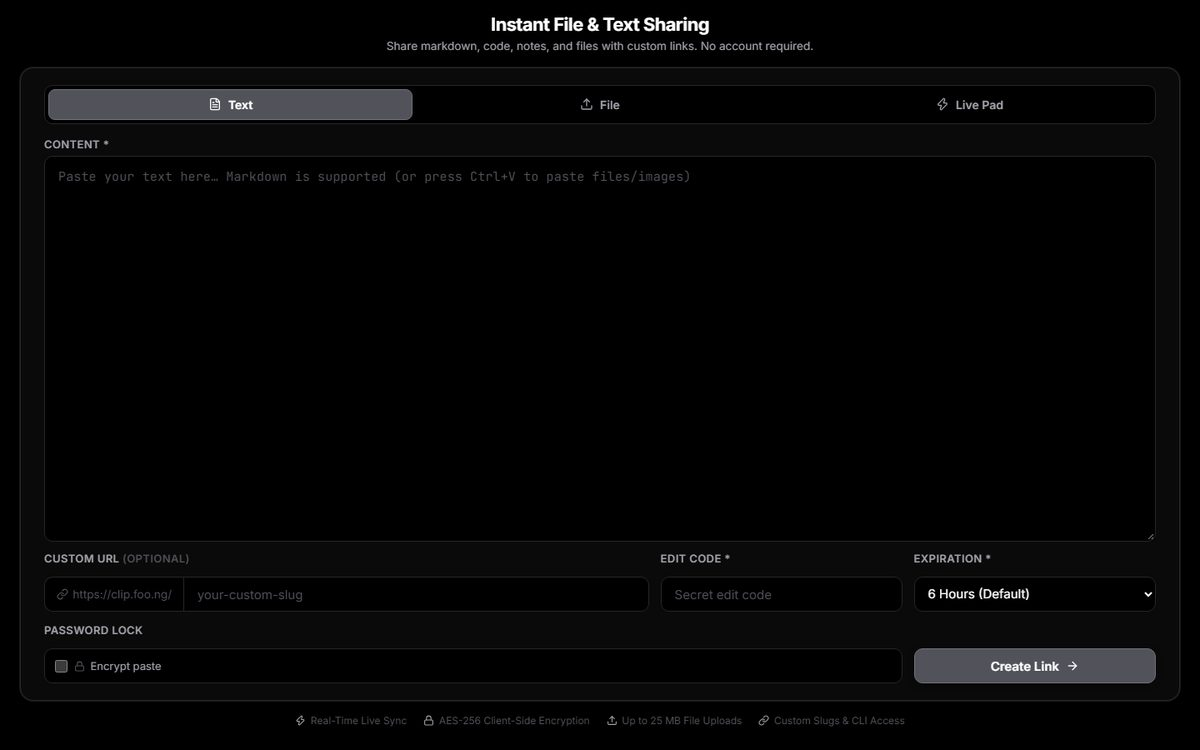
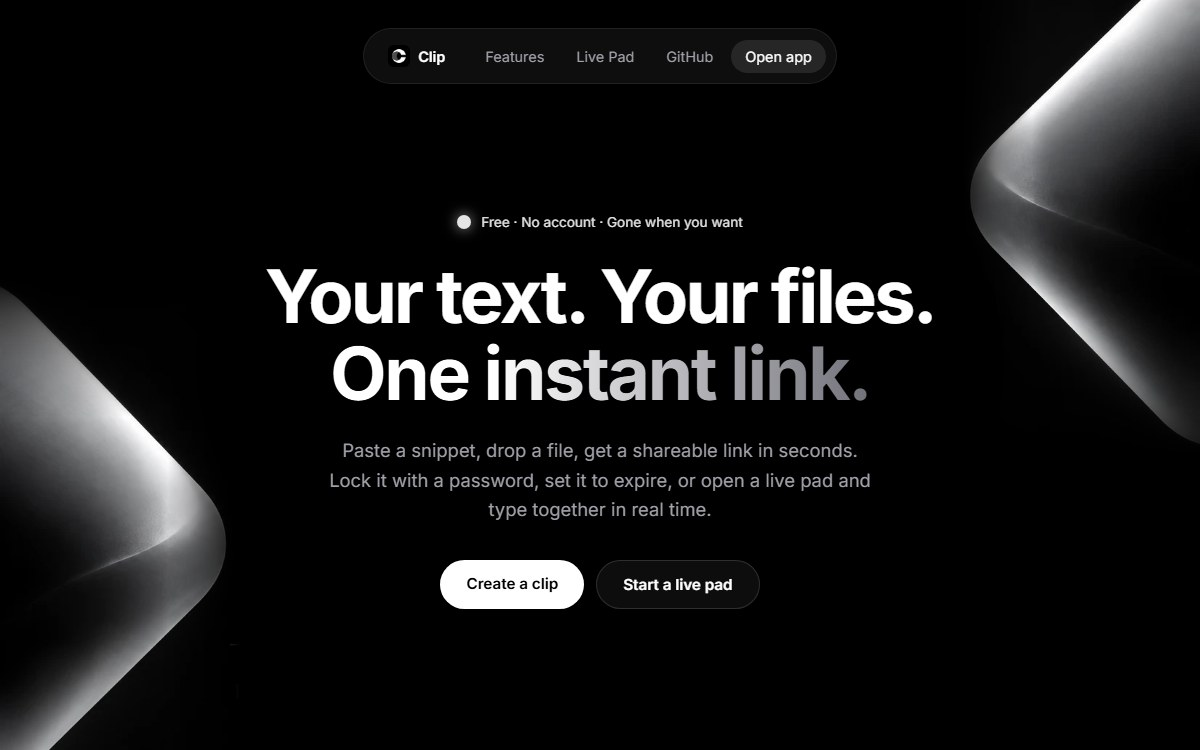
Add Campus Circular and CapitalAI projects, refresh Clip screenshot

diff --git a/index.html b/index.html
@@ -211,7 +211,7 @@
 
           <article class="card" data-card data-project="clip">
             <a class="card__media" href="https://clip.foo.ng" target="_blank" rel="noopener" tabindex="-1">
-              <img src="img/clip.jpg" alt="Clip, a zero-knowledge pastebin" loading="lazy" width="1200" height="750" />
+              <img src="img/clip.jpg" alt="Clip landing page: your text, your files, one instant link" loading="lazy" width="1200" height="750" />
             </a>
             <div class="card__body">
               <span class="card__no">1</span>
@@ -227,12 +227,48 @@
             </div>
           </article>
 
+          <article class="card" data-card data-project="campus">
+            <a class="card__media" href="https://webfusion20.vercel.app" target="_blank" rel="noopener" tabindex="-1">
+              <img src="img/campus-circular.jpg" alt="Campus Circular landing page: why buy what someone nearby already has" loading="lazy" width="1200" height="750" />
+            </a>
+            <div class="card__body">
+              <span class="card__no">2</span>
+              <h3>Campus Circular</h3>
+              <p class="card__kicker">Peer-to-peer resource sharing for campuses</p>
+              <p>Borrow what someone nearby already has. Escrow-secured deposits, a nine-stage borrowing lifecycle and AI bundles for what you need. 1st Runner Up at Thakur Web Fusion 2.0.</p>
+              <p class="card__tags">Next.js, React, TypeScript, Tailwind CSS</p>
+              <div class="card__links">
+                <button type="button" class="more" data-open="campus">Details</button>
+                <a href="https://webfusion20.vercel.app" target="_blank" rel="noopener">Live demo</a>
+                <a href="https://github.com/SC136/Web_Fusion_2.0" target="_blank" rel="noopener">Code</a>
+              </div>
+            </div>
+          </article>
+
+          <article class="card" data-card data-project="capital">
+            <a class="card__media" href="https://sentinelcap.vercel.app" target="_blank" rel="noopener" tabindex="-1">
+              <img src="img/capital-ai.jpg" alt="CapitalAI landing page: smarter capital for a stronger tomorrow" loading="lazy" width="1200" height="750" />
+            </a>
+            <div class="card__body">
+              <span class="card__no">3</span>
+              <h3>CapitalAI</h3>
+              <p class="card__kicker">Portfolio optimizer with autonomous risk safeguards</p>
+              <p>Builds portfolios that minimise tail risk, then watches live market data and trips a three-tier circuit breaker when limits are breached.</p>
+              <p class="card__tags">Next.js, FastAPI, Python, CVXPY</p>
+              <div class="card__links">
+                <button type="button" class="more" data-open="capital">Details</button>
+                <a href="https://sentinelcap.vercel.app" target="_blank" rel="noopener">Live demo</a>
+                <a href="https://github.com/TSROW-Studio/Capital-AI" target="_blank" rel="noopener">Code</a>
+              </div>
+            </div>
+          </article>
+
           <article class="card" data-card data-project="legal">
             <a class="card__media" href="https://legal-ai-gateway-xlmv.onrender.com/" target="_blank" rel="noopener" tabindex="-1">
               <img src="img/legal-ai.jpg" alt="LegalAI landing page" loading="lazy" width="1200" height="750" />
             </a>
             <div class="card__body">
-              <span class="card__no">2</span>
+              <span class="card__no">4</span>
               <h3>LegalAI</h3>
               <p class="card__kicker">AI legal research engine</p>
               <p>Ask a question about Indian criminal law and get an answer that names the exact IPC and BNS sections it relies on.</p>
@@ -250,7 +286,7 @@
               <img src="img/recode.jpg" alt="ReCode landing page" loading="lazy" width="1200" height="750" />
             </a>
             <div class="card__body">
-              <span class="card__no">3</span>
+              <span class="card__no">5</span>
               <h3>ReCode</h3>
               <p class="card__kicker">AI DSA companion</p>
               <p>A revision app that schedules spaced repetition for the topics you're weakest at, with hints that unlock one step at a time.</p>
@@ -263,37 +299,20 @@
             </div>
           </article>
 
-          <article class="card" data-card data-project="pcell">
-            <a class="card__media" href="https://project-cell-crce.vercel.app" target="_blank" rel="noopener" tabindex="-1">
-              <img src="img/projectcell.jpg" alt="Project Cell portal" loading="lazy" width="1200" height="750" />
-            </a>
-            <div class="card__body">
-              <span class="card__no">4</span>
-              <h3>Project Cell Portal</h3>
-              <p class="card__kicker">Official site of my college's tech club</p>
-              <p>The official portal for Project Cell at FrCRCE. I architected and deployed it on Next.js.</p>
-              <p class="card__tags">Next.js, React, Playwright</p>
-              <div class="card__links">
-                <button type="button" class="more" data-open="pcell">Details</button>
-                <a href="https://project-cell-crce.vercel.app" target="_blank" rel="noopener">Live site</a>
-              </div>
-            </div>
-          </article>
-
           <article class="card" data-card data-project="loop">
-            <a class="card__media" href="https://loop-1-0.vercel.app" target="_blank" rel="noopener" tabindex="-1">
+            <a class="card__media" href="https://loopsre.vercel.app/" target="_blank" rel="noopener" tabindex="-1">
               <img src="img/loop.jpg" alt="Loop SRE dashboard" loading="lazy" width="1200" height="750" />
             </a>
             <div class="card__body">
-              <span class="card__no">5</span>
+              <span class="card__no">6</span>
               <h3>Loop</h3>
               <p class="card__kicker">Autonomous SRE dashboard</p>
               <p>A dashboard that watches services, spots incidents early and suggests fixes. A demo of how an autonomous ops tool could work.</p>
               <p class="card__tags">TypeScript, React</p>
               <div class="card__links">
                 <button type="button" class="more" data-open="loop">Details</button>
-                <a href="https://loop-1-0.vercel.app" target="_blank" rel="noopener">Live demo</a>
-                <a href="https://github.com/WillyEverGreen/Loop_1.0" target="_blank" rel="noopener">Code</a>
+                <a href="https://loopsre.vercel.app/" target="_blank" rel="noopener">Live demo</a>
+                <a href="https://github.com/WillyEverGreen/Loop" target="_blank" rel="noopener">Code</a>
               </div>
             </div>
           </article>
@@ -303,7 +322,7 @@
               <img src="img/spacescope.jpg" alt="SpaceScope landing page" loading="lazy" width="1200" height="750" />
             </a>
             <div class="card__body">
-              <span class="card__no">6</span>
+              <span class="card__no">7</span>
               <h3>SpaceScope</h3>
               <p class="card__kicker">Satellite tracker and sky viewer</p>
               <p>Follow the ISS and satellites live, check space weather, or point your phone at the sky to see what's overhead.</p>
@@ -321,7 +340,7 @@
               <img src="img/journi.jpg" alt="JourniAI landing page" loading="lazy" width="1200" height="750" />
             </a>
             <div class="card__body">
-              <span class="card__no">7</span>
+              <span class="card__no">8</span>
               <h3>JourniAI</h3>
               <p class="card__kicker">AI trip planner</p>
               <p>Say where you're going and for how long. It plans each day and gives you a rough budget.</p>
@@ -339,7 +358,7 @@
               <img src="img/crypto.jpg" alt="Virtual Cryptography Laboratory" loading="lazy" width="1200" height="750" />
             </a>
             <div class="card__body">
-              <span class="card__no">8</span>
+              <span class="card__no">9</span>
               <h3>Cryptography Lab</h3>
               <p class="card__kicker">Hands-on security course lab</p>
               <p>Run classic and modern ciphers, hashes and a man in the middle attack, all in the browser.</p>
@@ -348,24 +367,6 @@
                 <button type="button" class="more" data-open="crypto">Details</button>
                 <a href="https://virtual-cryptography-lab.vercel.app" target="_blank" rel="noopener">Live demo</a>
                 <a href="https://github.com/WillyEverGreen/css-virtual-lab" target="_blank" rel="noopener">Code</a>
-              </div>
-            </div>
-          </article>
-
-          <article class="card" data-card data-project="e8086">
-            <a class="card__media" href="https://8086-jade.vercel.app" target="_blank" rel="noopener" tabindex="-1">
-              <img src="img/8086.jpg" alt="8086 simulator" loading="lazy" width="1200" height="750" />
-            </a>
-            <div class="card__body">
-              <span class="card__no">9</span>
-              <h3>8086 Simulator</h3>
-              <p class="card__kicker">Microprocessor simulator</p>
-              <p>Step through 8086 instructions and watch each pipeline stage and register change as it happens.</p>
-              <p class="card__tags">TypeScript, React, GSAP</p>
-              <div class="card__links">
-                <button type="button" class="more" data-open="e8086">Details</button>
-                <a href="https://8086-jade.vercel.app" target="_blank" rel="noopener">Live demo</a>
-                <a href="https://github.com/WillyEverGreen/8086" target="_blank" rel="noopener">Code</a>
               </div>
             </div>
           </article>
@@ -580,6 +581,30 @@
     <p class="d-links"><a href="https://clip.foo.ng" target="_blank" rel="noopener">Live demo</a><a href="https://github.com/WillyEverGreen/clip" target="_blank" rel="noopener">GitHub</a></p>
   </template>
 
+  <template id="t-campus">
+    <h3 id="dialogTitle">Campus Circular</h3>
+    <p class="d-kicker">Peer-to-peer resource sharing for campuses</p>
+    <ul>
+      <li><b>Product.</b> A marketplace where students lend and borrow cameras, calculators, laptops and more from people on the same campus. 1st Runner Up at Thakur Web Fusion 2.0.</li>
+      <li><b>Trust and payments.</b> Refundable security deposits held in a simulated escrow vault, a mock payment gateway (UPI, card, NetBanking) and a wallet with a full ledger.</li>
+      <li><b>Lifecycle.</b> A nine-stage tracker from request to settlement, with itemised invoices, a carbon impact dashboard and AI that bundles the gear you need.</li>
+    </ul>
+    <p class="d-tags">Next.js, React, TypeScript, Tailwind CSS</p>
+    <p class="d-links"><a href="https://webfusion20.vercel.app" target="_blank" rel="noopener">Live demo</a><a href="https://github.com/SC136/Web_Fusion_2.0" target="_blank" rel="noopener">GitHub</a></p>
+  </template>
+
+  <template id="t-capital">
+    <h3 id="dialogTitle">CapitalAI</h3>
+    <p class="d-kicker">Portfolio optimizer with autonomous risk safeguards</p>
+    <ul>
+      <li><b>Optimisation.</b> Mean-CVaR linear programming with CVXPY and Hierarchical Risk Parity to build portfolios that penalise tail losses and limit turnover.</li>
+      <li><b>Safeguards.</b> A three-tier circuit breaker (normal, amber, red, frozen) driven by live market feeds, with an append-only audit log of every intervention.</li>
+      <li><b>Stack.</b> A FastAPI quant engine in Python, and a Next.js dashboard with efficient frontier charts, a crisis stress-test simulator and an execution blotter.</li>
+    </ul>
+    <p class="d-tags">Next.js, FastAPI, Python, CVXPY</p>
+    <p class="d-links"><a href="https://sentinelcap.vercel.app" target="_blank" rel="noopener">Live demo</a><a href="https://github.com/TSROW-Studio/Capital-AI" target="_blank" rel="noopener">GitHub</a></p>
+  </template>
+
   <template id="t-legal">
     <h3 id="dialogTitle">LegalAI</h3>
     <p class="d-kicker">AI legal research engine</p>
@@ -605,18 +630,6 @@
     <p class="d-links"><a href="https://recode.sbs/" target="_blank" rel="noopener">Live demo</a><a href="https://github.com/WillyEverGreen/ReCode" target="_blank" rel="noopener">GitHub</a></p>
   </template>
 
-  <template id="t-pcell">
-    <h3 id="dialogTitle">Project Cell Portal</h3>
-    <p class="d-kicker">Technical Member, Project Cell, FrCRCE</p>
-    <ul>
-      <li><b>Portal.</b> Architected and deployed the official Project Cell portal on Next.js, with modular, performance-tuned component hierarchies.</li>
-      <li><b>Events app.</b> Delivered a real-time event management app (React Native, Expo, Firebase) with role-based auth for 120+ active participants.</li>
-      <li><b>Automation.</b> Built testing and deployment workflows with Playwright and Node.js that streamline recurring event operations.</li>
-    </ul>
-    <p class="d-tags">Next.js, React Native, Expo, Firebase, Playwright</p>
-    <p class="d-links"><a href="https://project-cell-crce.vercel.app" target="_blank" rel="noopener">Live site</a></p>
-  </template>
-
   <template id="t-loop">
     <h3 id="dialogTitle">Loop</h3>
     <p class="d-kicker">Autonomous SRE dashboard</p>
@@ -626,7 +639,7 @@
       <li>Runs on demo data and is meant to show how an autonomous ops tool could look and feel.</li>
     </ul>
     <p class="d-tags">TypeScript, React</p>
-    <p class="d-links"><a href="https://loop-1-0.vercel.app" target="_blank" rel="noopener">Live demo</a><a href="https://github.com/WillyEverGreen/Loop_1.0" target="_blank" rel="noopener">GitHub</a></p>
+    <p class="d-links"><a href="https://loopsre.vercel.app/" target="_blank" rel="noopener">Live demo</a><a href="https://github.com/WillyEverGreen/Loop" target="_blank" rel="noopener">GitHub</a></p>
   </template>
 
   <template id="t-space">
@@ -663,18 +676,6 @@
     </ul>
     <p class="d-tags">JavaScript, Web Crypto API</p>
     <p class="d-links"><a href="https://virtual-cryptography-lab.vercel.app" target="_blank" rel="noopener">Live demo</a><a href="https://github.com/WillyEverGreen/css-virtual-lab" target="_blank" rel="noopener">GitHub</a></p>
-  </template>
-
-  <template id="t-e8086">
-    <h3 id="dialogTitle">8086 Simulator</h3>
-    <p class="d-kicker">Microprocessor simulator</p>
-    <ul>
-      <li>Step mode walks through fetch, decode, execute and writeback, one pipeline stage at a time.</li>
-      <li>Animated data flow between memory, the control unit, the ALU and the register bank.</li>
-      <li>Supports MOV, ADD, SUB, MUL and DIV with live flag updates.</li>
-    </ul>
-    <p class="d-tags">TypeScript, React, GSAP, Tailwind CSS</p>
-    <p class="d-links"><a href="https://8086-jade.vercel.app" target="_blank" rel="noopener">Live demo</a><a href="https://github.com/WillyEverGreen/8086" target="_blank" rel="noopener">GitHub</a></p>
   </template>
 
   <script src="vendor/gsap.min.js"></script>
